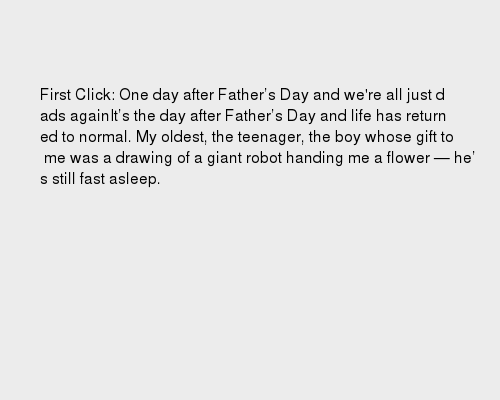
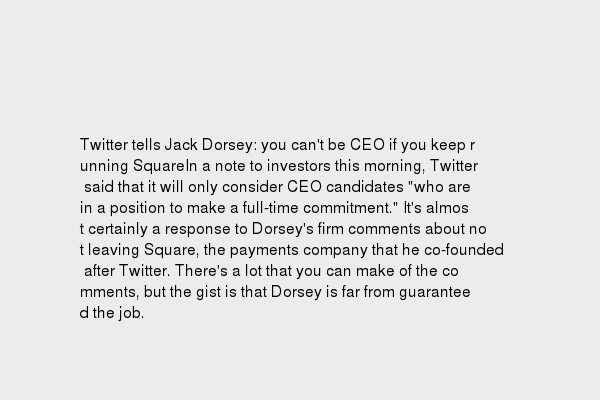
looks better in twitter timeline

Changed region(s): [[0.06, 0.21, 0.96, 0.48], [0.12, 0.51, 0.84, 0.81]]

diff --git a/server/app/routes/twitter/index.js b/server/app/routes/twitter/index.js
@@ -22,7 +22,7 @@ module.exports = router;
 router.get('/tweets', function(req, res, next) {
 
   // template creation
-  // gm(500, 400, "#ececec")
+  // gm(600, 400, "#ececec")
   // .gravity('NorthWest')
   // // .drawText(0, 0, text)
   // .write("./server/app/routes/twitter/img/template.png", function (err) {
@@ -80,7 +80,7 @@ router.get('/tweets', function(req, res, next) {
 process.nextTick(function() {
   var io = require('../../../io')();
   io.on('connection', function (socket) {
-      console.log('inside io')
+      // console.log('inside io')
       //this stream triggers when there are new statuses
       client.stream('statuses/filter', {track: "DaDeetzPlz", with: "user"}, function(stream) {
         console.log('We are listening E.T.:')
@@ -111,37 +111,38 @@ var x = true;
 var reply = function(user, link, index, length) {
   var text = '';
     x = false;
-    console.log('first run')
+    // console.log('first run')
     getPage(link).then(function (summary) {
-    console.log('////////////receiving summary///////////', summary.summary);
+    // console.log('////////////receiving summary///////////', summary.summary);
     var str = summary.summary.replace(/\r?\n|\r/g,'');
     str = str.match(/(.|[\n]){1,57}/g).join('\n');
     text = str;
     gm('./server/app/routes/twitter/img/template.png')
     .gravity('NorthWest')
-    .fontSize(16)
-    .drawText(40, 100, text)
+    .font('Helvetica.ttf', 16)
+    // .fontSize(16)
+    .drawText(80, 140, text)
     .write("./server/app/routes/twitter/img/summary.png", function (err) {
       if (!err) {
-      console.log('/////////////done creating summary image////////');
+      // console.log('/////////////done creating summary image////////');
     }
       else console.log(err);
     });
 
     setTimeout(function(){
-    console.log('assigning new image to data');
+    // console.log('assigning new image to data');
   fs.readFileAsync('./server/app/routes/twitter/img/summary.png').then(function(data) {
 
-    console.log('what is data from fs.readfile', data);
-    console.log('//////////////MADE IT TO media upload////////////');
+    // console.log('what is data from fs.readfile', data);
+    // console.log('//////////////MADE IT TO media upload////////////');
     // Make post request on media endpoint. Pass file data as media parameter
     client.post('media/upload', {media: data}, function(error, media, response){
       // console.log('this is from the media/upload', media)
-      console.log('/////////in client.post(media/upload)///////////////');
+      // console.log('/////////in client.post(media/upload)///////////////');
       if (!error) {
 
         // If successful, a media object will be returned.
-        console.log("this is the media object", user);
+        // console.log("this is the media object", user);
         // Lets tweet it
         var status = {
           status: '@' + user + " Here's your summary for: " + link,
@@ -151,13 +152,14 @@ var reply = function(user, link, index, length) {
         client.post('statuses/update', status, function(err, data, response) {
           if(!err){
           // console.log("where is this going? ", data)
-          console.log('/////////in client.post(statuses/update)///////////////');
+          // console.log('/////////in client.post(statuses/update)///////////////');
           x = true;
           }
        });
       }
     });
   })
+    console.log('reply done')
     }, 5000)
   }, console.log);
 };
